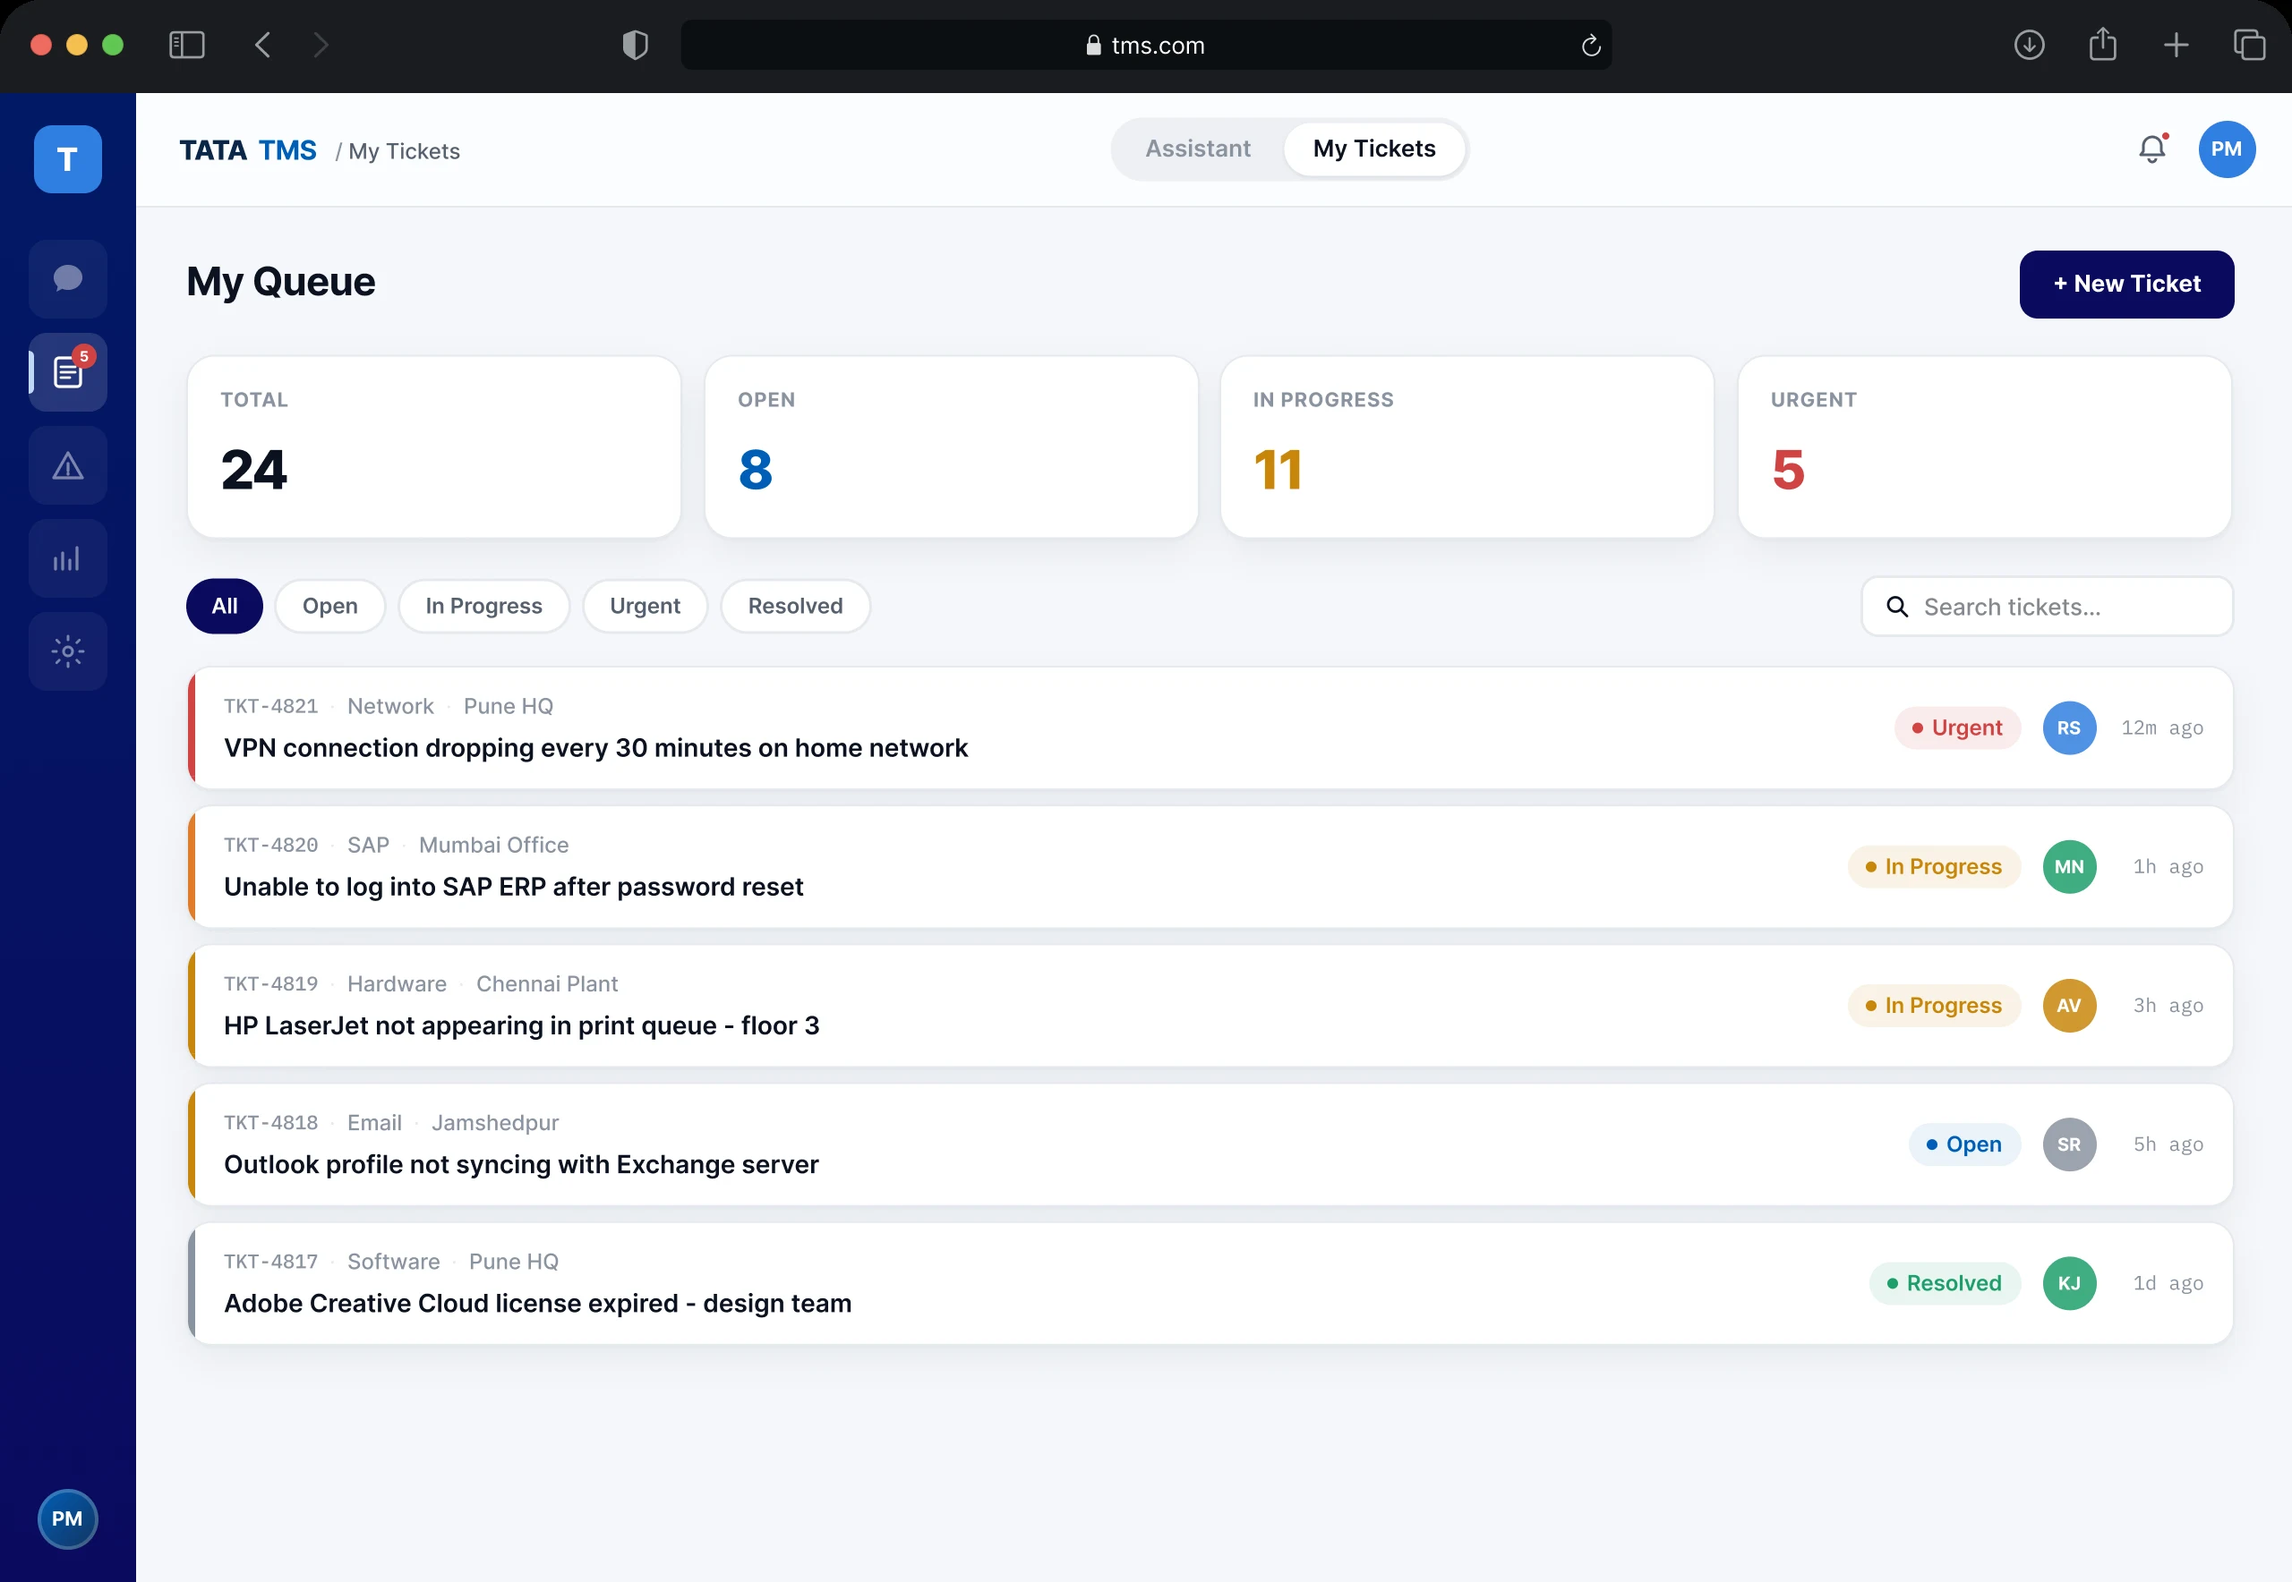
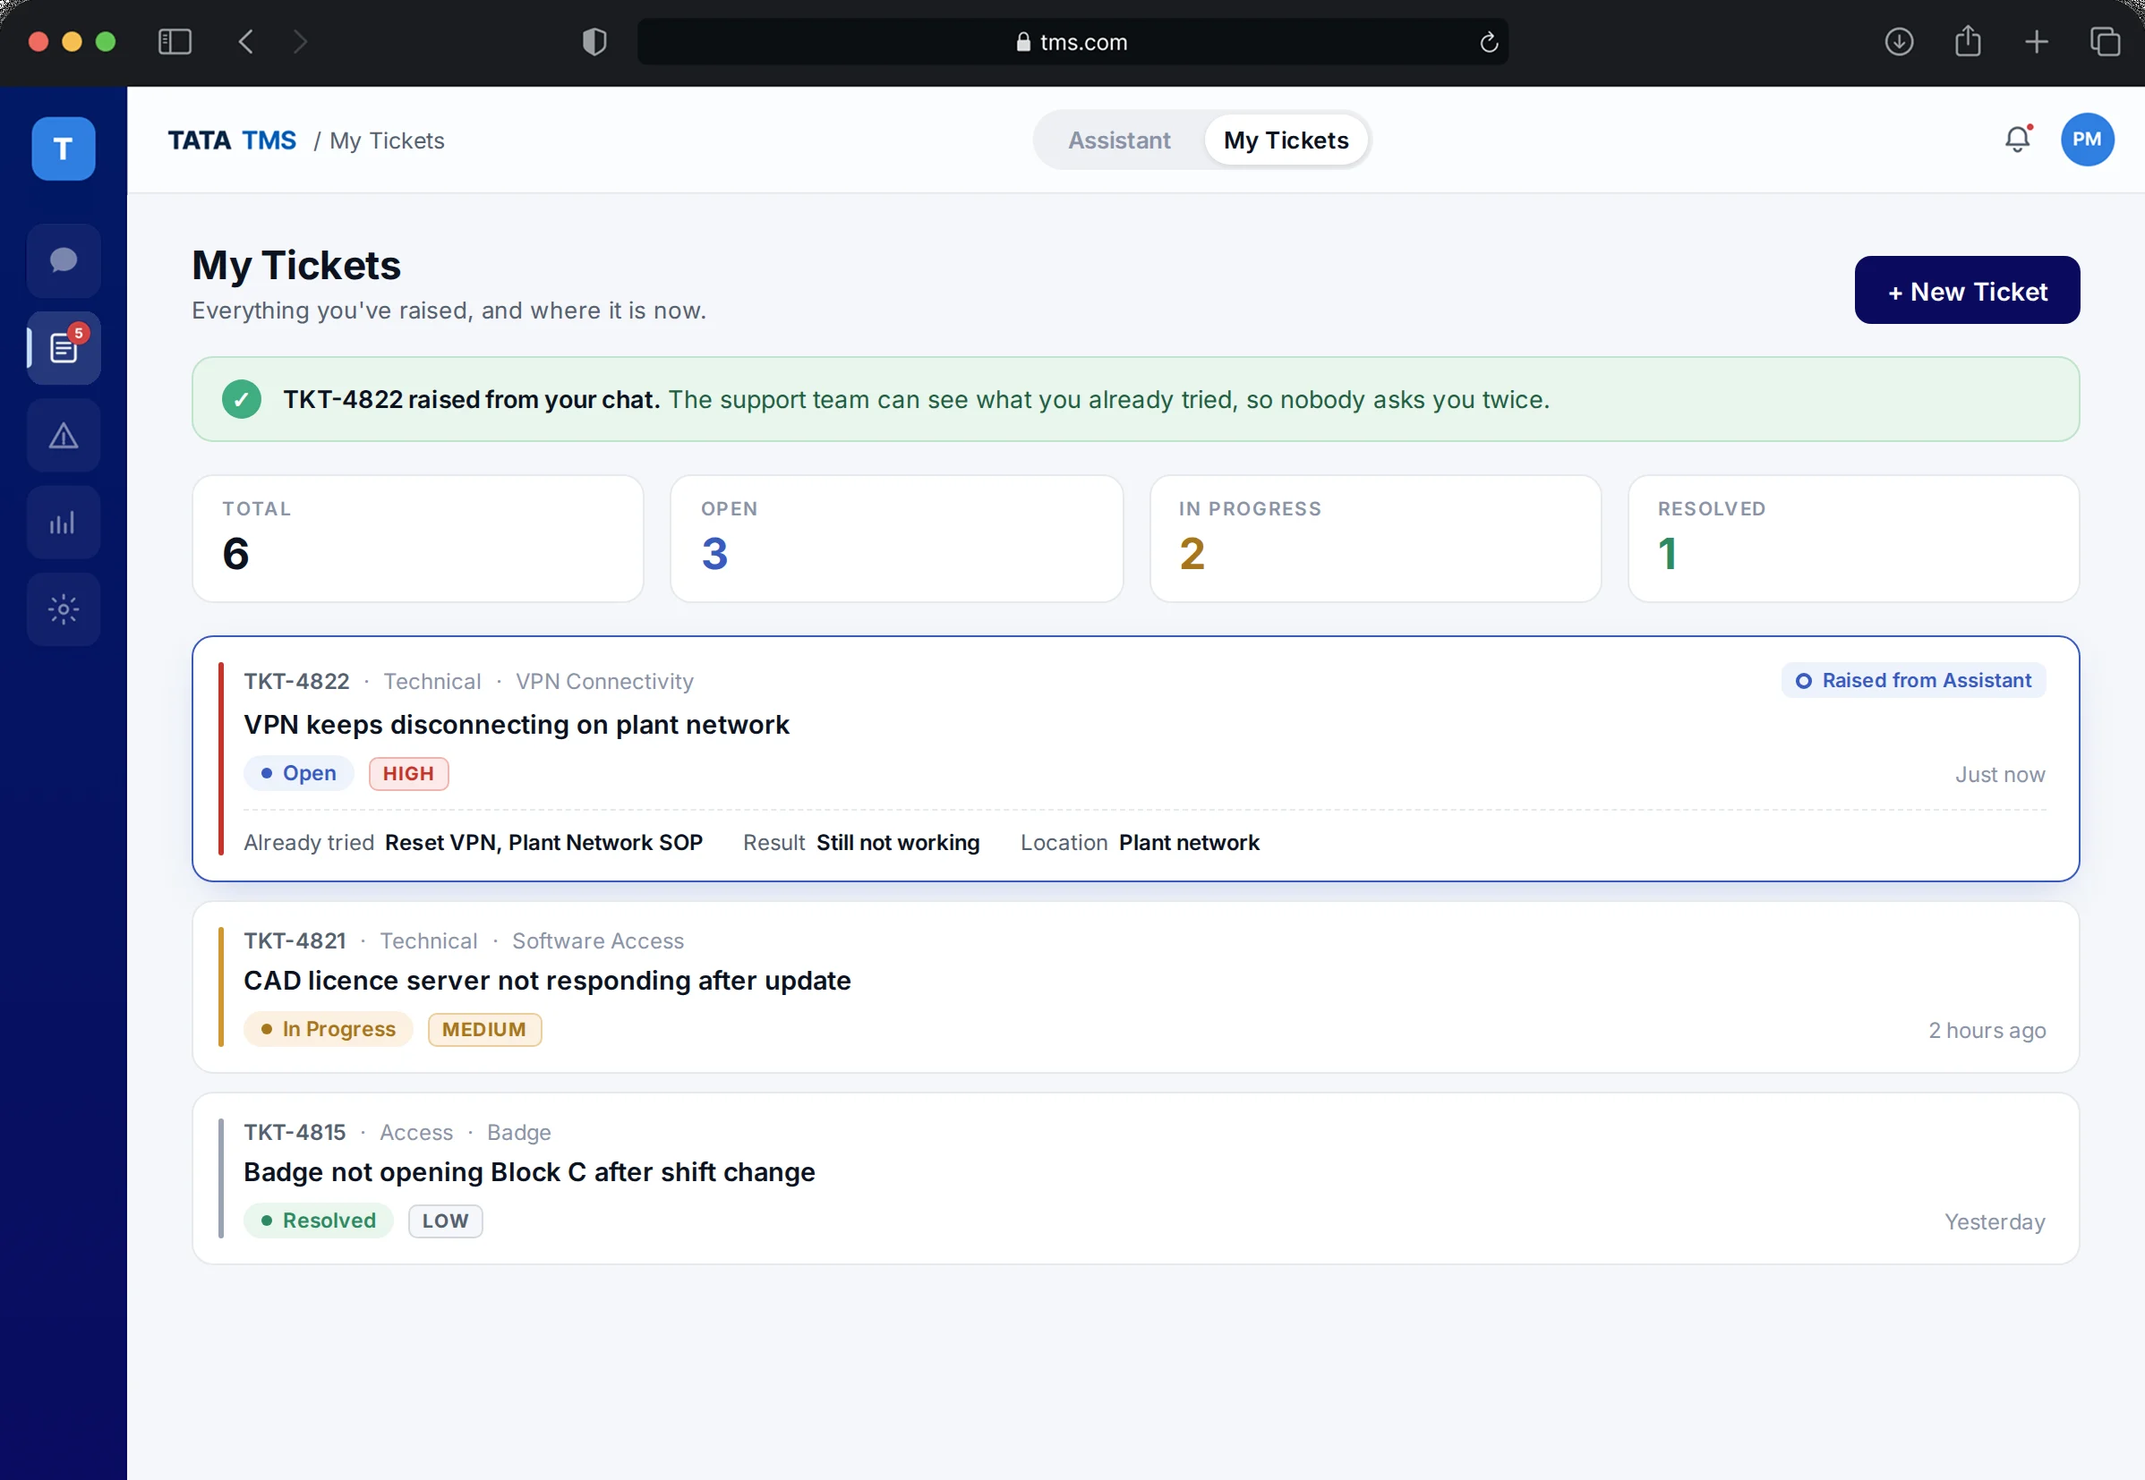
TMS preview: bring back the raised-from-chat screen with a New Ticket button
Claude-Session: https://claude.ai/code/session_01RbJu4ENjvQVX4t9txAJ5Am

diff --git a/my-work/project-2-v2/index.html b/my-work/project-2-v2/index.html
@@ -939,7 +939,7 @@
                 <div class="cs-pin-screen">
                   <img class="cs-pin-img is-active" src="../../assets/images/project-2/06-chatfirst.webp" alt="First load: a greeting, Hi Priya, how can I help, one input and four suggested starting points">
                   <img class="cs-pin-img" src="../../assets/images/project-2/07-chatsecond-describing.webp" loading="lazy" alt="Priya types that her VPN keeps disconnecting on the plant network. The assistant suggests a reset guide with That fixed it and Still not working buttons, then offers a pre filled ticket">
-                  <img class="cs-pin-img" src="../../assets/images/project-2/08-chatsecond-lands.webp" loading="lazy" alt="My Tickets: the queue with Priya's VPN ticket, TKT-4821, at the top, marked urgent, with its category and location already set">
+                  <img class="cs-pin-img" src="../../assets/images/project-2/08-chatsecond-lands.webp" loading="lazy" alt="My Tickets: a confirmation that TKT-4822 was raised from chat, and the new ticket at the top of the list, marked Raised from Assistant, showing what Priya already tried">
                 </div>
                 <div class="cs-pin-info">
                   <div class="cs-pin-caps">
@@ -955,7 +955,7 @@
                     </div>
                     <div class="cs-pin-cap">
                       <p class="cs-pin-name"><span>03</span>Where it lands</p>
-                      <p class="cs-pin-desc">Her ticket lands at the top of the queue, with its category, location and urgency already set.</p>
+                      <p class="cs-pin-desc">The ticket arrives already filled in, with what she tried and what happened.</p>
                       <p class="cs-pin-why">Why? Support staff still get the detail they need. It comes from the chat, not from Priya filling in fields.</p>
                     </div>
                   </div>
